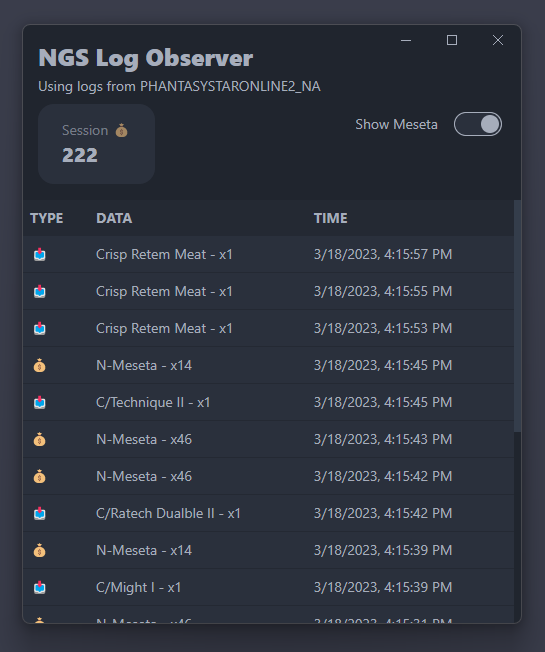
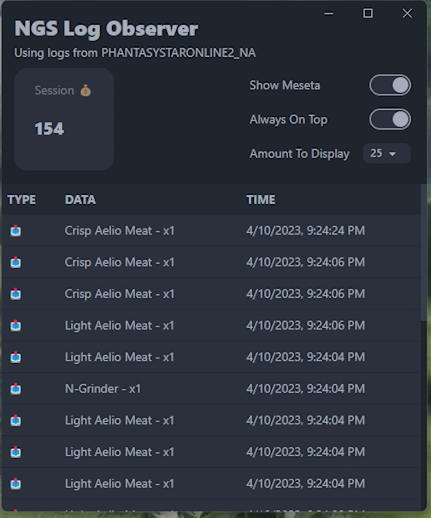
docs: update screenshot, remove gif(cuz lazy)

diff --git a/README.md b/README.md
@@ -25,8 +25,7 @@ An _ActionLog_ viewer for [PSO2:NGS©](https://pso2.com/)
 
 ---
 
-## Previews (v1.0)
+## Previews (v1.0.4)
 
 ![Filled Item Log](web/public/images/preview-filled-log.png) 
-![Animated Live Preview](web/public/images/preview-live.gif)
 
